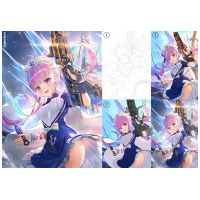
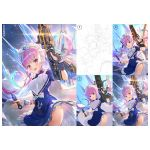
small thumbnail changed to 150x150

diff --git a/index_dev.html b/index_dev.html
@@ -77,18 +77,18 @@
                                 <p>お誕生日おめでとうあくあちゃん！毎日配信をしてくれてありがとう！</p>
                                 </blockquote></div></div></div><div class=birthday-msg-card-container data-aos=fade-in><div class="birthday-msg-card card card-default"><div class=sender-details><div class=sender-name-container><span class=sender-name>Warthog</span><span class="twitter-name text-muted">@Warthog455</span></div><div><span class="flag-icon flag-icon-my" title="Malaysia / マレーシア" alt="Malaysia / マレーシア"></span></div></div><div class=birthday-msg><blockquote class="blockquote mb-0">
                                 <p>Happy birthday to the best onion, Minato Aqua!!! You have provided so much joy and laughter to everyone, I really enjoy your daily streams and everyone can see how hard you work too! Have another wonderful year and I wish all the best to you!</p>
-                                </blockquote></div></div></div></div></section><section id=artbook><div class=sect-title data-aos=fade-in><h1>Artbook</h1><h3 lang=ja>画集</h3></div><div id=artbook-gallery><a href=artbook/Cover.png data-aos=fade-in><img srcset="artbook/thumbs_small/Cover_t.jpg 200w, artbook/thumbs/Cover_t.jpg 500w" sizes="(max-width: 700px) 200px,
-                                500px" src=artbook/thumbs/Cover_t.jpg alt=""></a><a href=artbook/Page_1.png data-aos=fade-in><img srcset="artbook/thumbs_small/Page_1_t.jpg 200w, artbook/thumbs/Page_1_t.jpg 500w" sizes="(max-width: 700px) 200px,
-                                500px" src=artbook/thumbs/Page_1_t.jpg alt=""></a><a href=artbook/Page_2-3.png data-aos=fade-in><img srcset="artbook/thumbs_small/Page_2-3_t.jpg 200w, artbook/thumbs/Page_2-3_t.jpg 500w" sizes="(max-width: 700px) 200px,
-                                500px" src=artbook/thumbs/Page_2-3_t.jpg alt=""></a><a href=artbook/Page_4-5.png data-aos=fade-in><img srcset="artbook/thumbs_small/Page_4-5_t.jpg 200w, artbook/thumbs/Page_4-5_t.jpg 500w" sizes="(max-width: 700px) 200px,
-                                500px" src=artbook/thumbs/Page_4-5_t.jpg alt=""></a><a href=artbook/Page_6-7.png data-aos=fade-in><img srcset="artbook/thumbs_small/Page_6-7_t.jpg 200w, artbook/thumbs/Page_6-7_t.jpg 500w" sizes="(max-width: 700px) 200px,
-                                500px" src=artbook/thumbs/Page_6-7_t.jpg alt=""></a><a href=artbook/Page_8-9.png data-aos=fade-in><img srcset="artbook/thumbs_small/Page_8-9_t.jpg 200w, artbook/thumbs/Page_8-9_t.jpg 500w" sizes="(max-width: 700px) 200px,
-                                500px" src=artbook/thumbs/Page_8-9_t.jpg alt=""></a><a href=artbook/Page_10-11.png data-aos=fade-in><img srcset="artbook/thumbs_small/Page_10-11_t.jpg 200w, artbook/thumbs/Page_10-11_t.jpg 500w" sizes="(max-width: 700px) 200px,
-                                500px" src=artbook/thumbs/Page_10-11_t.jpg alt=""></a><a href=artbook/Page_12-13.png data-aos=fade-in><img srcset="artbook/thumbs_small/Page_12-13_t.jpg 200w, artbook/thumbs/Page_12-13_t.jpg 500w" sizes="(max-width: 700px) 200px,
-                                500px" src=artbook/thumbs/Page_12-13_t.jpg alt=""></a><a href=artbook/Page_14-15.png data-aos=fade-in><img srcset="artbook/thumbs_small/Page_14-15_t.jpg 200w, artbook/thumbs/Page_14-15_t.jpg 500w" sizes="(max-width: 700px) 200px,
-                                500px" src=artbook/thumbs/Page_14-15_t.jpg alt=""></a><a href=artbook/Page_16-17.png data-aos=fade-in><img srcset="artbook/thumbs_small/Page_16-17_t.jpg 200w, artbook/thumbs/Page_16-17_t.jpg 500w" sizes="(max-width: 700px) 200px,
-                                500px" src=artbook/thumbs/Page_16-17_t.jpg alt=""></a><a href=artbook/Page_18-19.png data-aos=fade-in><img srcset="artbook/thumbs_small/Page_18-19_t.jpg 200w, artbook/thumbs/Page_18-19_t.jpg 500w" sizes="(max-width: 700px) 200px,
-                                500px" src=artbook/thumbs/Page_18-19_t.jpg alt=""></a><a href=artbook/Page_20-21.png data-aos=fade-in><img srcset="artbook/thumbs_small/Page_20-21_t.jpg 200w, artbook/thumbs/Page_20-21_t.jpg 500w" sizes="(max-width: 700px) 200px,
-                                500px" src=artbook/thumbs/Page_20-21_t.jpg alt=""></a><a href=artbook/Page_22-23.png data-aos=fade-in><img srcset="artbook/thumbs_small/Page_22-23_t.jpg 200w, artbook/thumbs/Page_22-23_t.jpg 500w" sizes="(max-width: 700px) 200px,
-                                500px" src=artbook/thumbs/Page_22-23_t.jpg alt=""></a><a href=artbook/Page_24.png data-aos=fade-in><img srcset="artbook/thumbs_small/Page_24_t.jpg 200w, artbook/thumbs/Page_24_t.jpg 500w" sizes="(max-width: 700px) 200px,
+                                </blockquote></div></div></div></div></section><section id=artbook><div class=sect-title data-aos=fade-in><h1>Artbook</h1><h3 lang=ja>画集</h3></div><div id=artbook-gallery><a href=artbook/Cover.png data-aos=fade-in><img srcset="artbook/thumbs_small/Cover_t.jpg 150w, artbook/thumbs/Cover_t.jpg 500w" sizes="(max-width: 700px) 150px,
+                                500px" src=artbook/thumbs/Cover_t.jpg alt=""></a><a href=artbook/Page_1.png data-aos=fade-in><img srcset="artbook/thumbs_small/Page_1_t.jpg 150w, artbook/thumbs/Page_1_t.jpg 500w" sizes="(max-width: 700px) 150px,
+                                500px" src=artbook/thumbs/Page_1_t.jpg alt=""></a><a href=artbook/Page_2-3.png data-aos=fade-in><img srcset="artbook/thumbs_small/Page_2-3_t.jpg 150w, artbook/thumbs/Page_2-3_t.jpg 500w" sizes="(max-width: 700px) 150px,
+                                500px" src=artbook/thumbs/Page_2-3_t.jpg alt=""></a><a href=artbook/Page_4-5.png data-aos=fade-in><img srcset="artbook/thumbs_small/Page_4-5_t.jpg 150w, artbook/thumbs/Page_4-5_t.jpg 500w" sizes="(max-width: 700px) 150px,
+                                500px" src=artbook/thumbs/Page_4-5_t.jpg alt=""></a><a href=artbook/Page_6-7.png data-aos=fade-in><img srcset="artbook/thumbs_small/Page_6-7_t.jpg 150w, artbook/thumbs/Page_6-7_t.jpg 500w" sizes="(max-width: 700px) 150px,
+                                500px" src=artbook/thumbs/Page_6-7_t.jpg alt=""></a><a href=artbook/Page_8-9.png data-aos=fade-in><img srcset="artbook/thumbs_small/Page_8-9_t.jpg 150w, artbook/thumbs/Page_8-9_t.jpg 500w" sizes="(max-width: 700px) 150px,
+                                500px" src=artbook/thumbs/Page_8-9_t.jpg alt=""></a><a href=artbook/Page_10-11.png data-aos=fade-in><img srcset="artbook/thumbs_small/Page_10-11_t.jpg 150w, artbook/thumbs/Page_10-11_t.jpg 500w" sizes="(max-width: 700px) 150px,
+                                500px" src=artbook/thumbs/Page_10-11_t.jpg alt=""></a><a href=artbook/Page_12-13.png data-aos=fade-in><img srcset="artbook/thumbs_small/Page_12-13_t.jpg 150w, artbook/thumbs/Page_12-13_t.jpg 500w" sizes="(max-width: 700px) 150px,
+                                500px" src=artbook/thumbs/Page_12-13_t.jpg alt=""></a><a href=artbook/Page_14-15.png data-aos=fade-in><img srcset="artbook/thumbs_small/Page_14-15_t.jpg 150w, artbook/thumbs/Page_14-15_t.jpg 500w" sizes="(max-width: 700px) 150px,
+                                500px" src=artbook/thumbs/Page_14-15_t.jpg alt=""></a><a href=artbook/Page_16-17.png data-aos=fade-in><img srcset="artbook/thumbs_small/Page_16-17_t.jpg 150w, artbook/thumbs/Page_16-17_t.jpg 500w" sizes="(max-width: 700px) 150px,
+                                500px" src=artbook/thumbs/Page_16-17_t.jpg alt=""></a><a href=artbook/Page_18-19.png data-aos=fade-in><img srcset="artbook/thumbs_small/Page_18-19_t.jpg 150w, artbook/thumbs/Page_18-19_t.jpg 500w" sizes="(max-width: 700px) 150px,
+                                500px" src=artbook/thumbs/Page_18-19_t.jpg alt=""></a><a href=artbook/Page_20-21.png data-aos=fade-in><img srcset="artbook/thumbs_small/Page_20-21_t.jpg 150w, artbook/thumbs/Page_20-21_t.jpg 500w" sizes="(max-width: 700px) 150px,
+                                500px" src=artbook/thumbs/Page_20-21_t.jpg alt=""></a><a href=artbook/Page_22-23.png data-aos=fade-in><img srcset="artbook/thumbs_small/Page_22-23_t.jpg 150w, artbook/thumbs/Page_22-23_t.jpg 500w" sizes="(max-width: 700px) 150px,
+                                500px" src=artbook/thumbs/Page_22-23_t.jpg alt=""></a><a href=artbook/Page_24.png data-aos=fade-in><img srcset="artbook/thumbs_small/Page_24_t.jpg 150w, artbook/thumbs/Page_24_t.jpg 500w" sizes="(max-width: 700px) 150px,
                                 500px" src=artbook/thumbs/Page_24_t.jpg alt=""></a></div></section></div><script src=https://unpkg.com/aos@2.3.1/dist/aos.js></script><script src=https://cdn.jsdelivr.net/gh/greghub/green-audio-player/dist/js/green-audio-player.min.js></script><script src=https://cdnjs.cloudflare.com/ajax/libs/simplelightbox/2.7.0/simple-lightbox.min.js integrity="sha512-ZajFBgnksNp8Rj+AbmYe8ueOu45HiSjtf3QpqnRbHlq719m6VK0FkbYIqQ8wEnlVuJ1i9pC+z6Z9ewmDnUTMCg==" crossorigin=anonymous></script><script src=dist/index.js></script></body></head></html>
